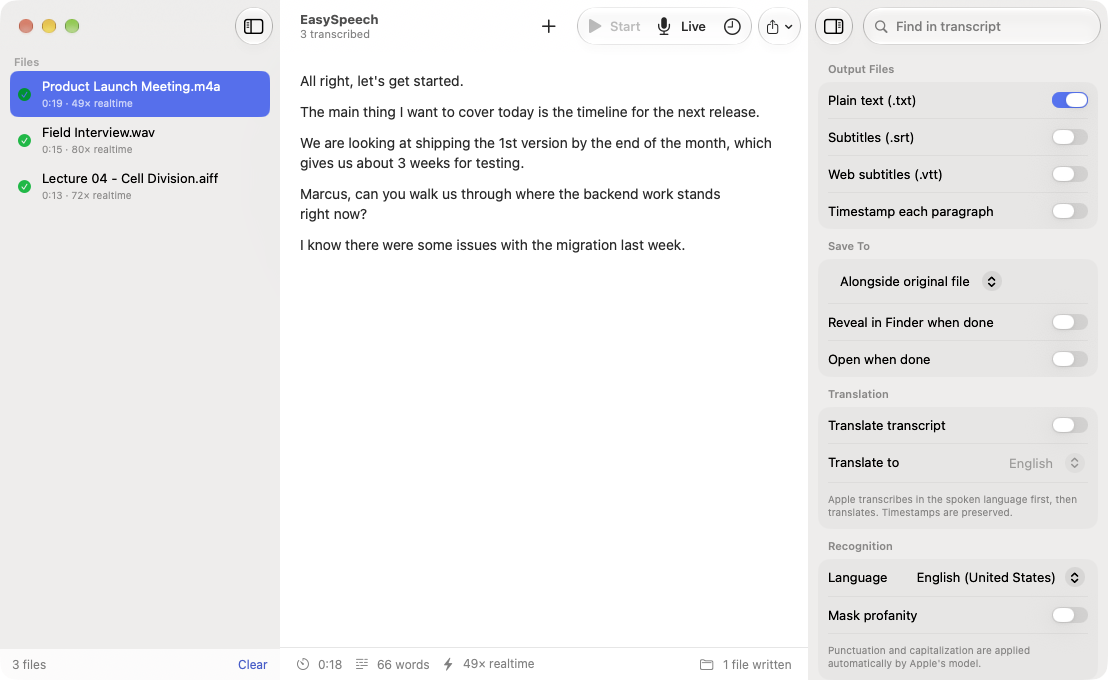
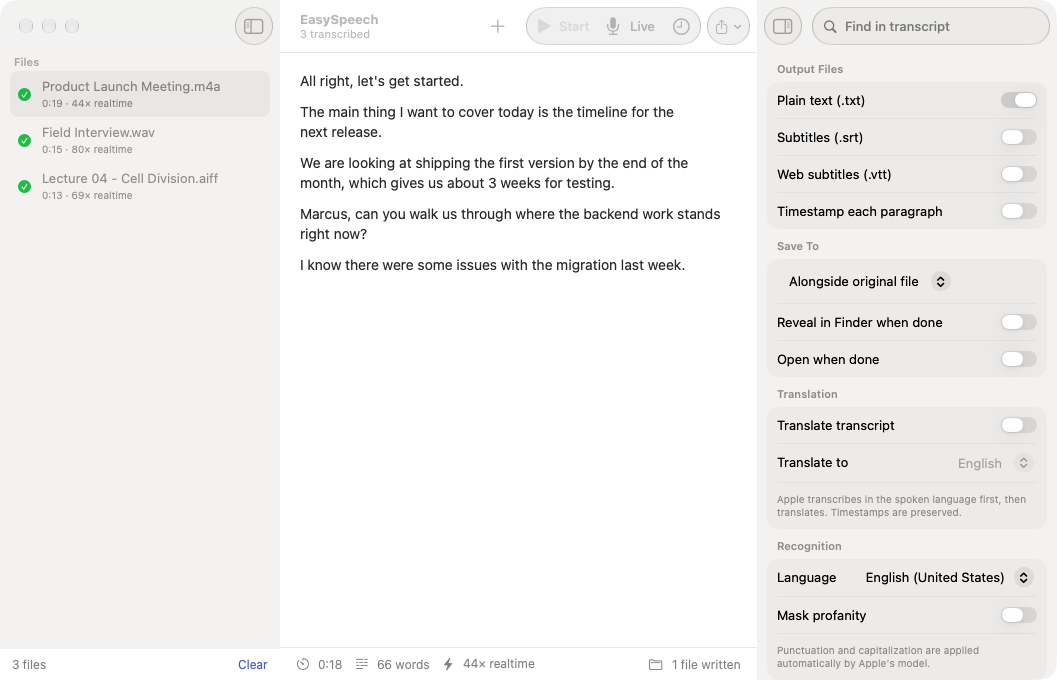
Spell out single-digit ordinals in prose
Apple's normalizer renders spoken "first" as "1st", which reads like a date
rather than prose — "shipping the 1st version". Single-digit ordinals now spell
out, following the usual convention that ordinals below ten are words and larger
ones stay as digits.

Dates are left alone: a month before the ordinal ("May 1st", "Sept. 3rd") skips
the rule, because "May first" reads like a mistake. Longer numbers need no
special case — the word boundary can't match inside 21st, 11th or 103rd.

README screenshot regenerated, since it was showing the very artifact this fixes.

diff --git a/Sources/EasySpeech/Export/SpokenNumbers.swift b/Sources/EasySpeech/Export/SpokenNumbers.swift
@@ -21,8 +21,33 @@ enum SpokenNumbers {
         result = replacePluralizedScales(in: result)
         result = replaceLargeRoundNumbers(in: result)
         result = replaceArticleQuantities(in: result)
+        result = replaceSmallOrdinals(in: result)
         result = groupCurrencyDigits(in: result)
         return result
+    }
+
+    private static let smallOrdinals: [String: String] = [
+        "1st": "first", "2nd": "second", "3rd": "third", "4th": "fourth", "5th": "fifth",
+        "6th": "sixth", "7th": "seventh", "8th": "eighth", "9th": "ninth"
+    ]
+
+    /// "the 1st version" → "the first version".
+    ///
+    /// Only single-digit ordinals, following the usual convention that ordinals below ten
+    /// are spelled out in prose and larger ones aren't. A date keeps its digits: "May 1st"
+    /// is left alone, because "May first" reads like a mistake.
+    ///
+    /// `\b([1-9])` can't match inside a longer number, so 11th, 21st and 103rd are all
+    /// untouched without needing a rule of their own.
+    private static func replaceSmallOrdinals(in text: String) -> String {
+        let months = "Jan|January|Feb|February|Mar|March|Apr|April|May|Jun|June|Jul|July|Aug|August|Sep|Sept|September|Oct|October|Nov|November|Dec|December"
+        let pattern = "(\\b(?:\(months))\\.?\\s+)?\\b([1-9](?:st|nd|rd|th))\\b"
+
+        return replaceMatches(of: pattern, in: text) { groups in
+            // Group 1 present means a month preceded it — that's a date, leave it.
+            guard groups[1].isEmpty else { return nil }
+            return smallOrdinals[groups[2].lowercased()]
+        }
     }
 
     /// "1000000s" → "millions". Nobody writes a plural on a digit string, so any match
